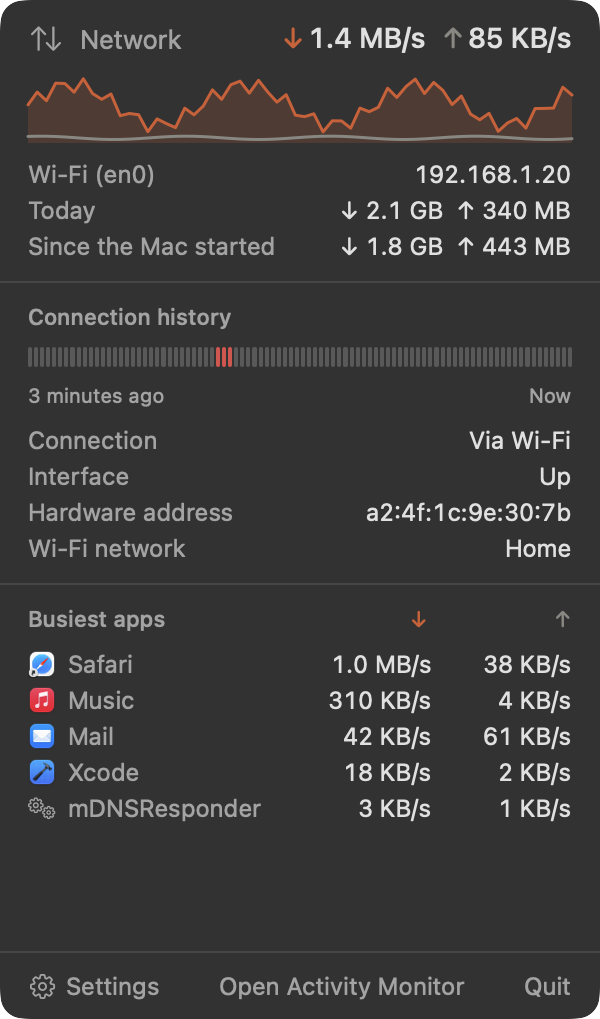
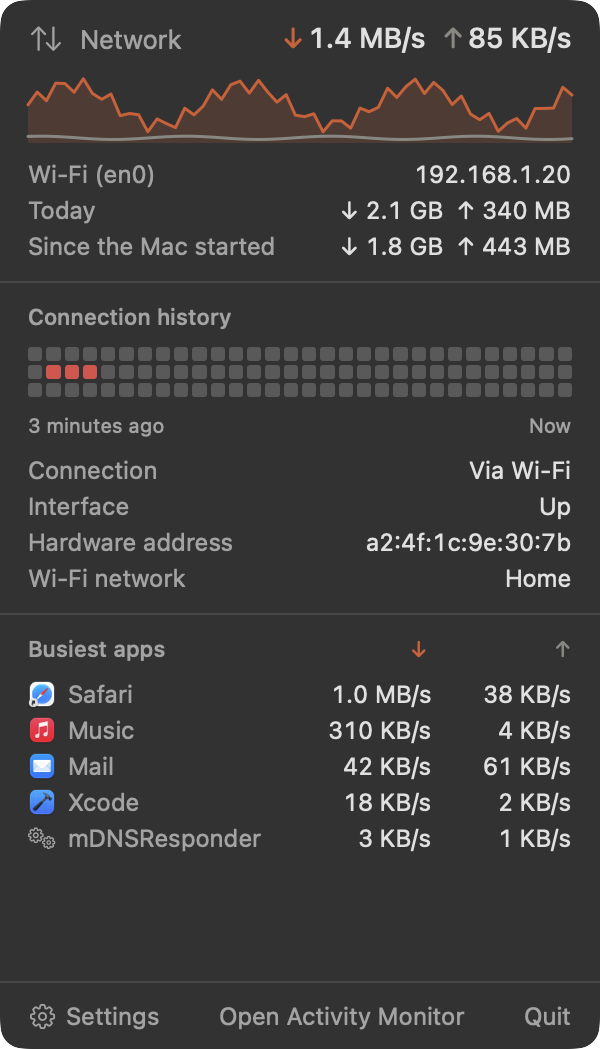
Show the connection history in three rows
Ninety readings as three rows of thirty squares, read like text from
the oldest at the top left to the newest at the bottom right, instead of
one row of thin ticks. Same quiet colour while connected and red for an
outage.

Also fixes a live nettop test whose #require could never fail: the
continuation's type was inferred without the optional, so the baseline
call's nil was not what was being checked.

diff --git a/Sources/MenuBarMonitor/Views/Bars.swift b/Sources/MenuBarMonitor/Views/Bars.swift
@@ -59,23 +59,31 @@ struct StackedBar: View {
     }
 }
 
-/// One tick per reading, newest on the right: quiet while macOS had a connection, red
-/// when it had none, fainter still before the first reading.
-struct ConnectivityStrip: View {
+/// One square per reading in three rows, read like text: oldest top left, newest bottom
+/// right. Quiet while macOS had a connection, red when it had none, fainter still
+/// before the first reading.
+struct ConnectionGrid: View {
     var entries: [Bool]
     var capacity: Int
+    var rows = 3
 
     var body: some View {
+        let columns = capacity / rows
         let offset = capacity - entries.count
-        HStack(spacing: 1) {
-            ForEach(0..<capacity, id: \.self) { slot in
-                let index = slot - offset
-                RoundedRectangle(cornerRadius: 1, style: .continuous)
-                    .fill(index < 0 ? Color.primary.opacity(0.06)
-                          : entries[index] ? Color.primary.opacity(0.22) : Palette.critical)
+        VStack(spacing: 2) {
+            ForEach(0..<rows, id: \.self) { row in
+                HStack(spacing: 2) {
+                    ForEach(0..<columns, id: \.self) { column in
+                        let index = row * columns + column - offset
+                        RoundedRectangle(cornerRadius: 1.5, style: .continuous)
+                            .fill(index < 0 ? Color.primary.opacity(0.06)
+                                  : entries[index] ? Color.primary.opacity(0.22)
+                                  : Palette.critical)
+                            .frame(height: 7)
+                    }
+                }
             }
         }
-        .frame(height: 10)
         .accessibilityElement(children: .ignore)
         .accessibilityLabel("Connected at \(entries.filter { $0 }.count) of the last "
                             + "\(entries.count) readings")

diff --git a/Tests/MenuBarMonitorTests/NetworkDetailsTests.swift b/Tests/MenuBarMonitorTests/NetworkDetailsTests.swift
@@ -63,18 +63,18 @@ struct NettopTests {
 
     @MainActor
     @Test("nettop on this machine takes a baseline first, then measures")
-    func live() async {
+    func live() async throws {
         let sampler = ProcessSampler()
-        let first = await withCheckedContinuation { continuation in
-            sampler.readNetwork(limit: 50) { continuation.resume(returning: $0) }
+        func read() async -> [NetworkAppUsage]? {
+            await withCheckedContinuation { (done: CheckedContinuation<[NetworkAppUsage]?, Never>) in
+                sampler.readNetwork(limit: 50) { done.resume(returning: $0) }
+            }
         }
+        let first = await read()
         #expect(first == nil)
-        try? await Task.sleep(for: .milliseconds(300))
-        let second = await withCheckedContinuation { continuation in
-            sampler.readNetwork(limit: 50) { continuation.resume(returning: $0) }
-        }
-        let apps = try? #require(second)
-        #expect(apps?.allSatisfy { $0.downloadPerSecond >= 0 && $0.uploadPerSecond >= 0 } == true)
+        try await Task.sleep(for: .milliseconds(300))
+        let apps = try #require(await read())
+        #expect(apps.allSatisfy { $0.downloadPerSecond >= 0 && $0.uploadPerSecond >= 0 })
     }
 }
 

diff --git a/Sources/MenuBarMonitor/Views/PanelView.swift b/Sources/MenuBarMonitor/Views/PanelView.swift
@@ -182,8 +182,8 @@ struct PanelView: View {
         Divider()
         PanelSection {
             GroupTitle("Connection history")
-            ConnectivityStrip(entries: store.connectionHistory.entries,
-                              capacity: ConnectionHistory.length)
+            ConnectionGrid(entries: store.connectionHistory.entries,
+                           capacity: ConnectionHistory.length)
             HStack {
                 let span = Double(ConnectionHistory.length) * settings.refreshInterval
                 Text("\(Format.uptime(span)) ago")

diff --git a/CONTRIBUTING.md b/CONTRIBUTING.md
@@ -82,7 +82,7 @@ Sources/MenuBarMonitor/
     PanelView         one metric's dropdown
     SettingsView      the settings window, with a live preview of each style
     Sparkline         the graph shape, the mini bar and the memory bar
-    Bars              per-core bars, the stacked memory bar and the connection strip
+    Bars              per-core bars, the stacked memory bar and the connection history
     Theme             the palette and the warning colours
   App/
     main              starts the app, or a developer command
